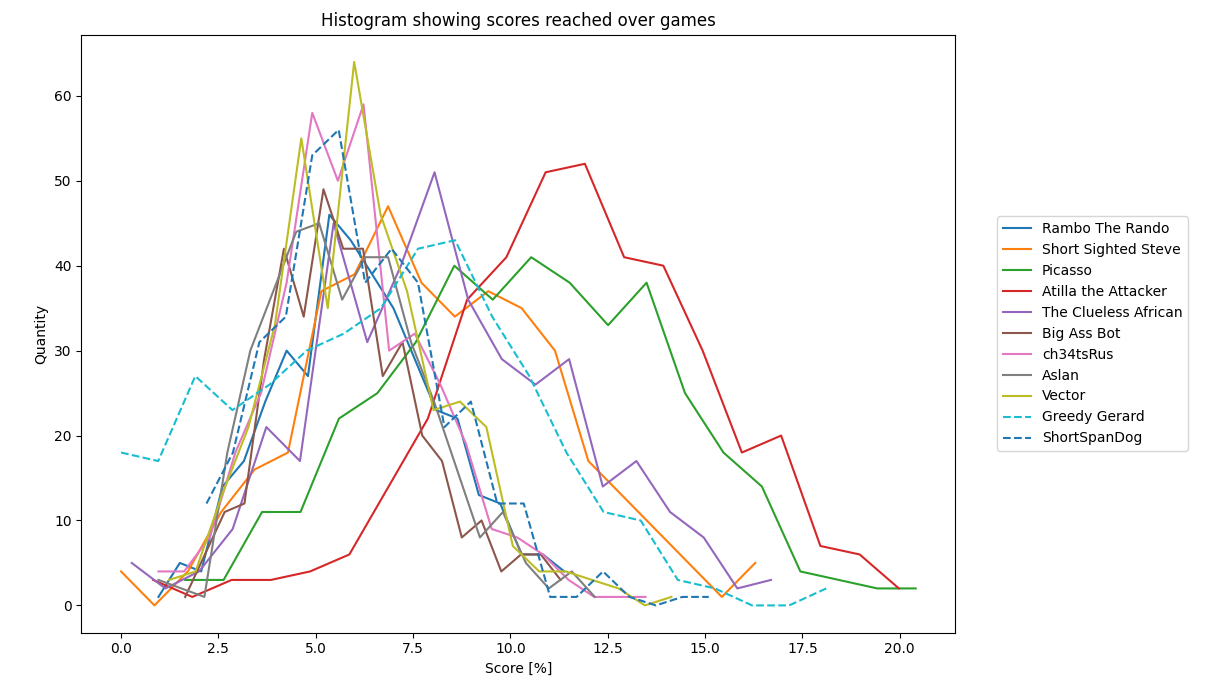
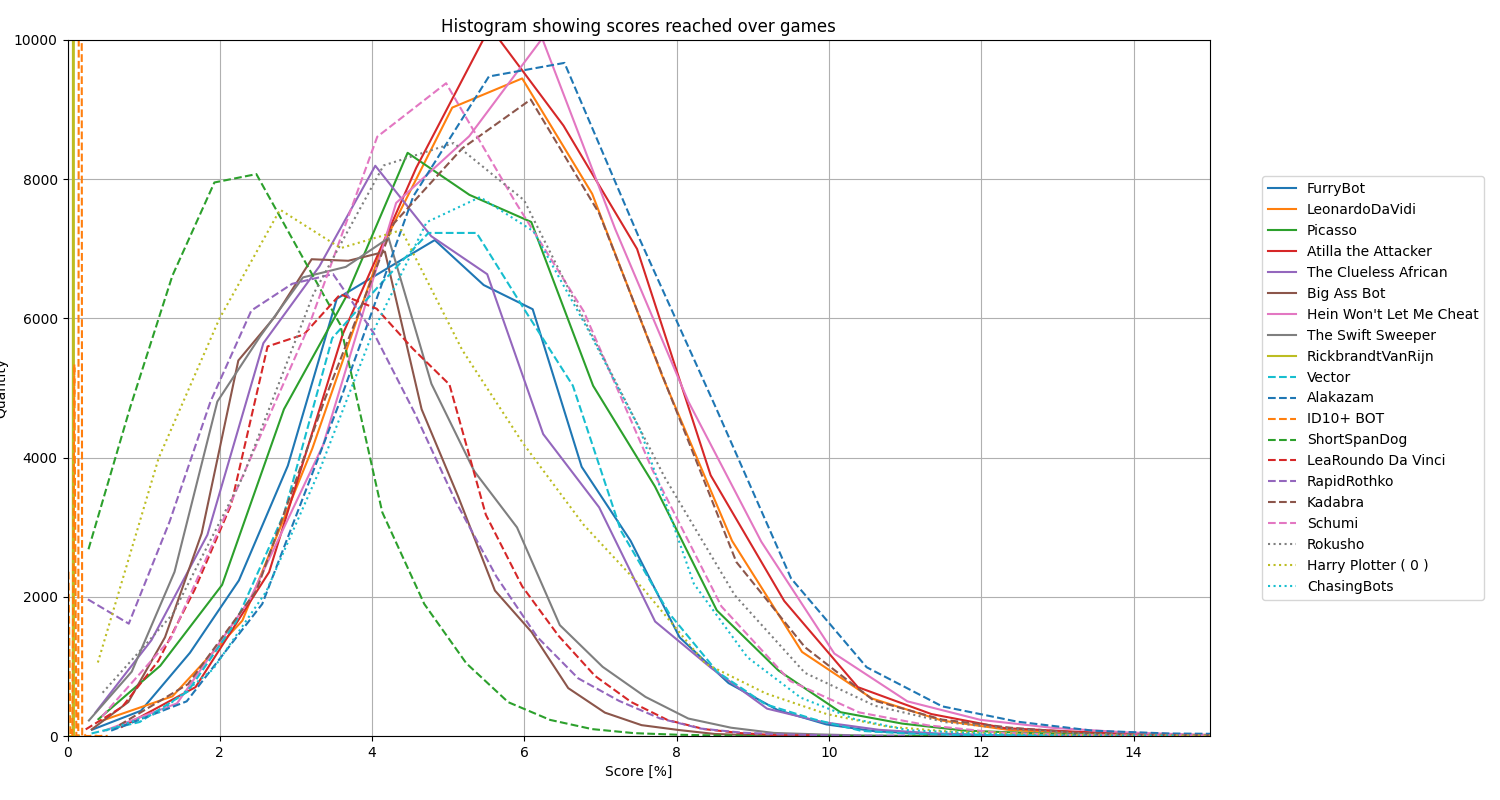
Update the final rankings

diff --git a/readme.md b/readme.md
@@ -2,68 +2,71 @@
 
 ![](images/banner.png)
 
-## Current Standings
-_Last updated: 16 April 2023 18:00_
+## Final Standings
 
 **Score:**
 ```
-Rank Name                          Contributor         Avg [us]       Score  
-1    Atilla the Attacker           Jorik de Vries      870.222        5.8     %
-2    Hein Won't Let Me Cheat       Lewie               2318.747       5.743   %
-3    LeonardoDaVidi                Bram Fenijn         804.323        5.615   %
-4    Kadabra                       Rayman              1030.411       5.474   %
-5    ChasingBots                   Jerrel              312.196        5.079   %
-6    Abra                          Rayman              857.092        5.076   %
-7    Picasso                       Daniel              560.929        5.013   %
-8    Schumi                        Ferdinand Schumacher547.382        4.904   %
-9    Rokusho                       Rokus               272.969        4.726   %
-10   FurryBot                      Ferdinand Schumacher144.291        4.636   %
-11   The Clueless African          JP Potgieter        42.75          4.265   %
-12   Short Sighted Steve           Nobleo              72.658         4.084   %
-13   Harry Plotter ( 0 )           Bram Fenijn         1795.889       3.823   %
-14   LeaRoundo Da Vinci            Hein                415.198        3.691   %
-15   The Swift Sweeper             Jerrel              10.088         3.445   %
-16   Rambo The Rando               Nobleo              17.006         3.371   %
-17   Vector                        Ishu                16.877         3.358   %
-18   Big Ass Bot                   Mahmoud             63.365         3.325   %
-19   RapidRothko                   Jorik de Vries      9.692          3.085   %
-20   ShortSpanDog                  Felipe              168.336        2.279   %
-21   ID10+ BOT                     Nobleo              26601.84       0.114   %
-22   RickbrandtVanRijn             Rick Voogt          2.721          0.064   %
+Rank Name                          Contributor         Avg [us]       Score
+1    Alakazam                      Rayman              2433.561       6.185   %
+2    Hein Won't Let Me Cheat       Lewie               830.144        6.019   %
+3    Atilla the Attacker           Jorik de Vries      461.188        5.915   %
+4    Kadabra                       Rayman              572.762        5.803   %
+5    LeonardoDaVidi                Bram Fenijn         249.556        5.801   %
+6    ChasingBots                   Jerrel              141.236        5.506   %
+7    Picasso                       Daniel              202.45         5.197   %
+8    Rokusho                       Rokus               400.448        5.166   %
+9    Schumi                        Ferdinand Schumacher310.913        5.116   %
+10   Vector                        Ishu                10.954         5.098   %
+11   FurryBot                      Ferdinand Schumacher76.346         4.951   %
+12   The Clueless African          JP Potgieter        21.233         4.531   %
+13   Harry Plotter ( 0 )           Bram Fenijn         769.523        4.122   %
+14   LeaRoundo Da Vinci            Hein                240.143        3.908   %
+15   The Swift Sweeper             Jerrel              5.273          3.813   %
+16   Big Ass Bot                   Mahmoud             33.003         3.627   %
+17   RapidRothko                   Jorik de Vries      4.963          3.343   %
+18   ShortSpanDog                  Felipe              72.709         2.495   %
+19   ID10+ BOT                     Nobleo              9541.598       0.139   %
+20   RickbrandtVanRijn             Rick Voogt          1.23           0.072   %
 ```
 **Efficiency:**
 ```
-Rank Name                          Contributor         Avg [us]       Score [%]   Efficiency [%/us]
-1    The Swift Sweeper             Jerrel              10.088         3.445       0.341       
-2    RapidRothko                   Jorik de Vries      9.692          3.085       0.318       
-3    Vector                        Ishu                16.877         3.358       0.199       
-4    Rambo The Rando               Nobleo              17.006         3.371       0.198       
-5    The Clueless African          JP Potgieter        42.75          4.265       0.1         
-6    Short Sighted Steve           Nobleo              72.658         4.084       0.056       
-7    Big Ass Bot                   Mahmoud             63.365         3.325       0.052       
-8    FurryBot                      Ferdinand Schumacher144.291        4.636       0.032       
-9    RickbrandtVanRijn             Rick Voogt          2.721          0.064       0.023       
-10   Rokusho                       Rokus               272.969        4.726       0.017       
-11   ChasingBots                   Jerrel              312.196        5.079       0.016       
-12   ShortSpanDog                  Felipe              168.336        2.279       0.014       
-13   Schumi                        Ferdinand Schumacher547.382        4.904       0.009       
-14   Picasso                       Daniel              560.929        5.013       0.009       
-15   LeaRoundo Da Vinci            Hein                415.198        3.691       0.009       
-16   LeonardoDaVidi                Bram Fenijn         804.323        5.615       0.007       
-17   Atilla the Attacker           Jorik de Vries      870.222        5.8         0.007       
-18   Abra                          Rayman              857.092        5.076       0.006       
-19   Kadabra                       Rayman              1030.411       5.474       0.005       
-20   Hein Won't Let Me Cheat       Lewie               2318.747       5.743       0.002       
-21   Harry Plotter ( 0 )           Bram Fenijn         1795.889       3.823       0.002       
-22   ID10+ BOT                     Nobleo              26601.84       0.114       0.0
+Rank Name                          Contributor         Avg [us]       Score [%]   Efficiency [%/us]
+1    The Swift Sweeper             Jerrel              5.273          3.813       0.723
+2    RapidRothko                   Jorik de Vries      4.963          3.343       0.674
+3    Vector                        Ishu                10.954         5.098       0.465
+4    The Clueless African          JP Potgieter        21.233         4.531       0.213
+5    Big Ass Bot                   Mahmoud             33.003         3.627       0.11
+6    FurryBot                      Ferdinand Schumacher76.346         4.951       0.065
+7    RickbrandtVanRijn             Rick Voogt          1.23           0.072       0.059
+8    ChasingBots                   Jerrel              141.236        5.506       0.039
+9    ShortSpanDog                  Felipe              72.709         2.495       0.034
+10   Picasso                       Daniel              202.45         5.197       0.026
+11   LeonardoDaVidi                Bram Fenijn         249.556        5.801       0.023
+12   Schumi                        Ferdinand Schumacher310.913        5.116       0.016
+13   LeaRoundo Da Vinci            Hein                240.143        3.908       0.016
+14   Rokusho                       Rokus               400.448        5.166       0.013
+15   Atilla the Attacker           Jorik de Vries      461.188        5.915       0.013
+16   Kadabra                       Rayman              572.762        5.803       0.01
+17   Hein Won't Let Me Cheat       Lewie               830.144        6.019       0.007
+18   Harry Plotter ( 0 )           Bram Fenijn         769.523        4.122       0.005
+19   Alakazam                      Rayman              2433.561       6.185       0.003
+20   ID10+ BOT                     Nobleo              9541.598       0.139       0.0
 ```
-_Note: These results are not a from a full tournament in the correct configuration. Final results might differ._
 
+**Bonus Prizes:**
+- Rokushu by Rokus Ottervanger: Most erratic bot with highest standard deviation in final score (σ = 2.119 %).
+- RickbrandtVanRijn by Rick Voogt: Most consistent bot with lowest standard deviation in final score (σ = 0.019 %).
+- Harry Plotter by Bram Fenijn: Friendliest Follower bot which allowed any other bot to become it's friend (until it was considered cheating).
+
+
+These standings were determined by running a tournament consisting of 50 000 games of 2000 rounds each, which took 21 hours to calculate.
+
+---
 ## Description
 
 The goal is the fill as much as possible of the canvas with your bot's colour. The bot with the most tiles win! *Be weary of other bots who might want to paint over your hard work!* There will also be a secondary prize for the bot that claimed the most tiles using the least amount of _processing time_!
 
-[View the already submitted bots battle online here!](https://nobleans-playground.github.io/coding-challenge-colour-battle/)
+[~~View the already submitted bots battle online here!~~](https://nobleans-playground.github.io/coding-challenge-colour-battle/) _Out of order: We are sorry for the inconvenience._
 
 You will write your bot's logic in a Python class. In each iteration of the game a specific function in your bot will be called (with relevant information as arguments), and your bot will need to decide in which direction to turn.
 
@@ -198,6 +201,6 @@ This will create an image containing a flowchart with blocks representing functi
 **Important:** Premature optimization is the [root of all evil](https://m.xkcd.com/1691/). First ensure your bot is functioning properly before attempting optimiziation.
 
 ## Some Statistics
-Below is a histogram created on March 18 showing the distrubution of scores achieved by different bots (ignoring `id10plus` and `RickbrandtVanRijn`).
+Below is a histogram showing the performance of the different bots over the final 50000 games. The straight vertical lines on the left are a broken bot and incomplete bot.
 
 ![](images/histogram.png)
